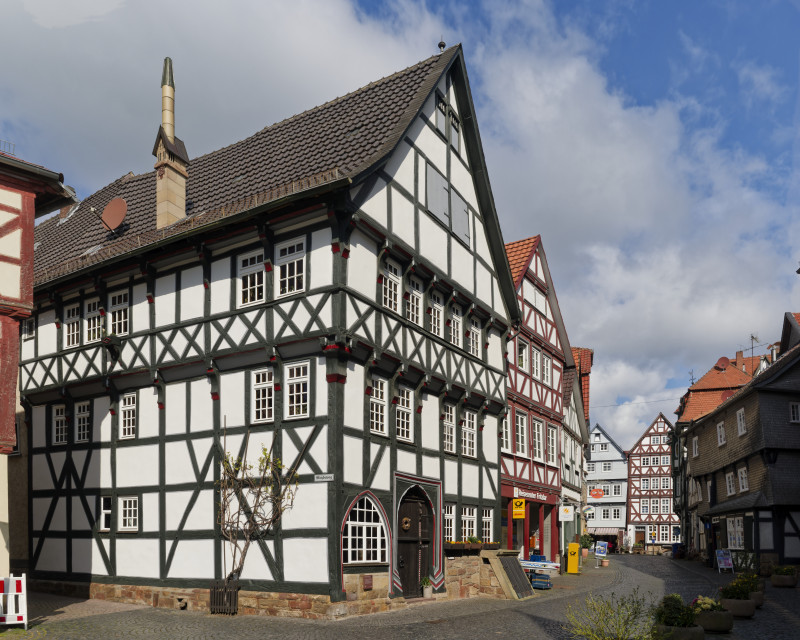
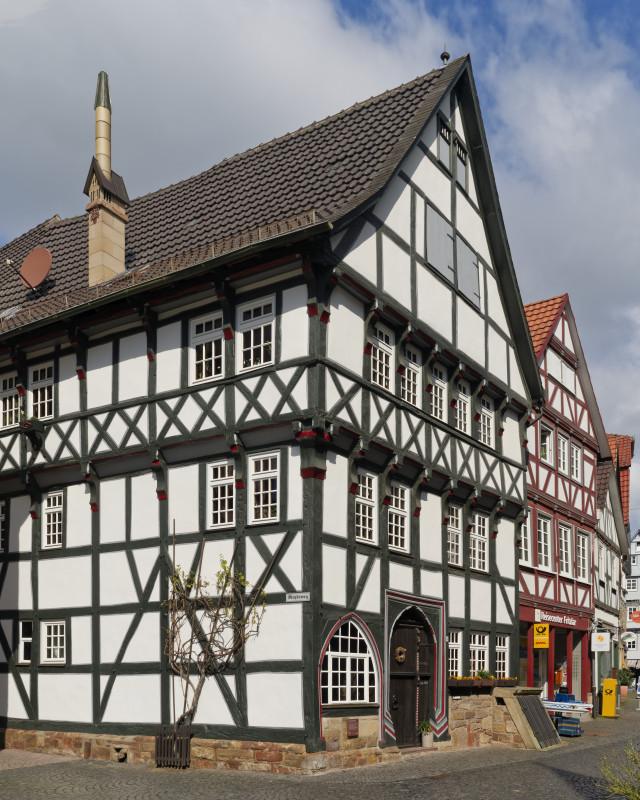
update fritzlar

diff --git a/locales/fritzlar/de/aboutTabsHeader.html b/locales/fritzlar/de/aboutTabsHeader.html
@@ -1,0 +1,5 @@
+<li class="active"><a href="#expectModal" data-toggle="tab"><i class="bi bi-person-check"></i>&nbsp;Geschichte</a></li>
+<li><a href="#aboutModal" data-toggle="tab"><i class="bi bi-question-circle"></i>&nbsp;Über das Projekt</a></li>
+<li><a href="#featuresModal" data-toggle="tab"><i class="bi bi-ui-checks"></i>&nbsp;Features</a></li>
+<li><a href="#linksModal" data-toggle="tab"><i class="bi bi-bookmark-star"></i>&nbsp;Links</a></li>
+<li><a href="#disclaimerModal" data-toggle="tab"><i class="bi bi-exclamation-circle"></i>&nbsp;Disclaimer</a></li>

diff --git a/locales/fritzlar/de/disclaimerModalLi.md b/locales/fritzlar/de/disclaimerModalLi.md
@@ -1,17 +1,31 @@
-## Disclaimer / Haftungsausschluss
+# Disclaimer
 
-### Haftung für Inhalte
+## Haftungsbeschränkung
 
-Die Inhalte unserer Seiten wurden mit größter Sorgfalt erstellt. Für die Richtigkeit, Vollständigkeit und Aktualität der Inhalte (insbesondere der Points-of-Interest und Routenverläufe) können wir jedoch keine Gewähr übernehmen. Als Diensteanbieter sind wir gemäß § 7 Abs.1 DDG für eigene Inhalte auf diesen Seiten nach den allgemeinen Gesetzen verantwortlich.
+Die Inhalte des
+Internetauftritts wurden mit größtmöglicher Sorgfalt und nach
+bestem Gewissen erstellt. Dennoch übernimmt der Anbieter dieser
+Webseite keine Gewähr für die Aktualität, Vollständigkeit und
+Richtigkeit der bereitgestellten Seiten und Inhalte.
 
-### Haftung für Links
+## Externe Links
 
-Unser Angebot enthält Links zu externen Webseiten Dritter (z. B. PayPal), auf deren Inhalte wir keinen Einfluss haben. Deshalb können wir für diese fremden Inhalte auch keine Gewähr übernehmen. Für die Inhalte der verlinkten Seiten ist stets der jeweilige Anbieter oder Betreiber der Seiten verantwortlich.
+Die Webseite enthält
+    sog. „externe Links“ (Verlinkungen) zu anderen Webseiten, auf
+    deren Inhalt der Anbieter der Webseite keinen Einfluss hat. Aus
+    diesem Grund kann der Anbieter für diese Inhalte auch keine
+    Gewähr übernehmen.
 
-### Urheberrecht
+## Datenschutz
 
-Die durch die Seitenbetreiber erstellten Inhalte und Werke auf diesen Seiten unterliegen dem deutschen Urheberrecht. Die Vervielfältigung, Bearbeitung, Verbreitung und jede Art der Verwertung außerhalb der Grenzen des Urheberrechtes bedürfen der schriftlichen Zustimmung des jeweiligen Autors bzw. Erstellers.
+Durch den Besuch des
+    Internetauftritts können Informationen (Datum, Uhrzeit,
+    aufgerufene Seite) über den Zugriff auf dem Server gespeichert
+    werden. Es werden keine personenbezogenenen (z. B. Name,
+    Anschrift oder E-Mail-Adresse) Daten, gespeichert.
 
-### Hinweis zu "Spenden" / Support
+## Quelle
 
-Bei den über diese App geleisteten Zahlungen handelt es sich rechtlich um freiwillige Zuwendungen (Schenkungen) ohne Gegenleistung zur Unterstützung des Projekts. Es besteht kein Anspruch auf eine Spendenbescheinigung im steuerrechtlichen Sinne.
+[Disclaimer und Websites erstellen]
+
+[Disclaimer und Websites erstellen]: href="http://www.mustervorlage.net/homepage-kostenlos

diff --git a/locales/fritzlar/de/startModalBody.md b/locales/fritzlar/de/startModalBody.md
@@ -1,4 +1,19 @@
 ![Fritzlar](./images/fritzlar/p0.jpg#pano)
+
 Tauche ein in 1300 Jahre Geschichte: Von Bonifatius' mutigem Akt an der Donareiche über Kaiser und Kriege bis hin zu charmantem Fachwerk und unerwarteten Wirtschaftswundern. Fritzlar – wo Vergangenheit lebendig wird und überraschende Geschichten warten!
 
-_Die Inhalte wurden unter Einsatz von KI-Werkzeugen erstellt und sorgfältig überprüft. Vereinzelt können Unstimmigkeiten nicht ausgeschlossen werden._
+Die günstige geografische Lage dieser Stadt im frühen Mittelalter machte sie zu einem zentralen Knotenpunkt für Verkehr und große politische und religiöse Ereignisse. Ihre frühe Entwicklung ist eng mit der Kirchengründung eines Missionars verbunden, der durch das Fällen einer heiligen Eiche die Christianisierung einleitete. Im Laufe der Jahrhunderte wurde die Stadt immer wieder zum Schauplatz militärischer Konflikte, die zu wiederholten Zerstörungen führten. Diese turbulente Geschichte prägte maßgeblich ihre architektonische Identität, die sich in umfangreichen Verteidigungsanlagen wie Stadtmauern und Türmen manifestierte. Zudem zeugen zahlreiche Sakralbauten sowie historische Fachwerk- und Repräsentativbauten von der anhaltenden Bedeutung und dem ständigen Wiederaufbau dieser stetig wandelnden Siedlung.
+
+## Was kann ich in Korbach entdecken?
+
+<audio controls class="full-width-audio">
+  <source src="locales/fritzlar/de/p0.mp3" type="audio/mpeg">
+  Dein Browser unterstützt kein Audioelement.
+</audio>
+
+## Hinweis
+
+- Über das Pfeilsymbol können Sie jederzeit Ihre Position auf der Karte anzeigen lassen.
+- "Route" zeigt Entfernungen zwischen den Sehenswürdigkeiten
+- Unter „About“ finden Sie spannende Hintergrundinformationen zum Projekt.
+- In der „Gallery“ können Sie ganz in Ruhe durch die schönsten Bilder stöbern

diff --git a/locales/fritzlar/de/p1.md b/locales/fritzlar/de/p1.md
@@ -2,6 +2,13 @@
 
 Das Rathaus in Fritzlar ist das älteste urkundlich erwähnte und bis heute genutzte Amtshaus Deutschlands, dessen ursprünglicher romanischer Bau ab dem Jahr 1274 als Sitz der Stadtverwaltung diente. Nach einer Zerstörung durch Brand im Jahr 1423 wurde das Gebäude bis 1441 im gotischen Stil umfassend wiederaufgebaut und mit drei spitzen Türmchen an der Südfassade versehen. Das Erscheinungsbild wurde durch Abtragungen im 19. Jahrhundert verändert, jedoch durch umfangreiche Sanierungen und Rekonstruktionen, einschliesslich der Wiedereinrichtung der Türmchen im Jahr 2009, in seine historische Form zurückgeführt und dient weiterhin als Rathaus.
 
+## Audio
+
+<audio controls class="full-width-audio">
+  <source src="locales/fritzlar/de/p1.mp3" type="audio/mpeg">
+  Dein Browser unterstützt kein Audioelement.
+</audio>
+
 ## Quellen
 
 - Informationstafeln Fritzlar

diff --git a/locales/fritzlar/de/p10.md b/locales/fritzlar/de/p10.md
@@ -2,6 +2,13 @@
 
 Das Haus Seibel am Markt ist ein spätgotisches Gebäude, dessen Ursprünge auf das Jahr 1480 zurückgehen und das erstmals 1483 urkundlich erwähnt wurde. Es wurde in Ständerbauweise errichtet und diente ursprünglich dem damaligen Bürgermeister Iwan als Gewerbe- und Wirtschaftsgebäude mit einer charakteristisch hohen Kaufhalle. Im 16. und 17. Jahrhundert beherbergte das Gebäude das Gasthaus „Zur Lilie“, wo unter anderem Generalfeldmarschall Tilly während des Dreißigjährigen Krieges verweilte. Später, im 18. Jahrhundert, wurde es zum Wohnhaus eines landwirtschaftlichen Anwesens der Familie Seibel. Das Gebäude weist eine erhebliche Schiefstellung auf, die durch eine unabhängige Betonkonstruktion abgefangen wurde, und erfuhr zwischen 1979 und 1981 eine umfassende Sanierung durch die Familie Heer.
 
+## Audio
+
+<audio controls class="full-width-audio">
+  <source src="locales/fritzlar/de/p10.mp3" type="audio/mpeg">
+  Dein Browser unterstützt kein Audioelement.
+</audio>
+
 ## Quellen
 
 - Informationstafeln Fritzlar

diff --git a/locales/fritzlar/de/p11.md b/locales/fritzlar/de/p11.md
@@ -2,6 +2,13 @@
 
 Das Hochzeitshaus ist ein großer, viergeschossiger Fachwerkbau, der zwischen 1580 und 1590 errichtet wurde und als Beispiel für Gebäude dient, die ab dem Spätmittelalter für umfangreiche bürgerliche Feierlichkeiten wie Hochzeiten und Taufen entstanden. Diese Häuser wurden notwendig, da die Räumlichkeiten privater Bürger oder öffentlicher Einrichtungen für die wachsenden Festgesellschaften zu klein wurden. Im Laufe seiner Geschichte diente dieses spezielle Gebäude unterschiedlichen Zwecken, darunter als Militärhospital, Schule und provisorisches Rathaus, bevor es zu einem Museum zur Stadtgeschichte umgewandelt wurde.
 
+## Audio
+
+<audio controls class="full-width-audio">
+  <source src="locales/fritzlar/de/p11.mp3" type="audio/mpeg">
+  Dein Browser unterstützt kein Audioelement.
+</audio>
+
 ## Quellen
 
 - Informationstafeln Fritzlar

diff --git a/locales/fritzlar/de/p12.md b/locales/fritzlar/de/p12.md
@@ -2,6 +2,13 @@
 
 Das Haus Orth ist ein gotischer Ständerbau, dessen Entstehung auf das Jahr 1520 datiert wird. Es diente ursprünglich als Patrizierhaus einer einflussreichen Familie, bevor es später als Wohnsitz einer landwirtschaftlichen Familie genutzt wurde. Nach einer Sanierung in den späten 1970er Jahren ist es heute teilweise in die Räumlichkeiten eines größeren Fachwerkgebäudes integriert, das ein Museum beherbergt. Dieses größere Gebäude aus den Jahren 1580 bis 1590 ist für seine repräsentative Renaissance-Architektur bekannt und wurde für bürgerliche Feierlichkeiten genutzt.
 
+## Audio
+
+<audio controls class="full-width-audio">
+  <source src="locales/fritzlar/de/p12.mp3" type="audio/mpeg">
+  Dein Browser unterstützt kein Audioelement.
+</audio>
+
 ## Quellen
 
 - Informationstafeln Fritzlar

diff --git a/locales/fritzlar/de/p14.md b/locales/fritzlar/de/p14.md
@@ -7,6 +7,13 @@ In Folge der Entwicklung schwerer Geschütze erfolgte im 15. Jahrhundert die Auf
 1541 wird das Turmverlies zum Stadtgefängnis.
 Der Graue Turm ist mit einer Höhe von 38,50 Metern einer der mächtigsten städtischen Wehrtürme in Deutschland.
 
+## Audio
+
+<audio controls class="full-width-audio">
+  <source src="locales/fritzlar/de/p14.mp3" type="audio/mpeg">
+  Dein Browser unterstützt kein Audioelement.
+</audio>
+
 ## Quellen
 
 - Informationstafeln Fritzlar

diff --git a/locales/fritzlar/de/p15.md b/locales/fritzlar/de/p15.md
@@ -4,6 +4,13 @@
 Mit seinen beiden zweigeschossigen seitlichen Erkern und den reich eingeschnitzten Rankenornamenten war es das stattliche Wohnhaus eines ehemals wohlhabenden landwirtschaftlichen Anwesens. 1960 im unteren Teil für das Herren-Textilgeschäft Lambert umgebaut.
 Seit 1998 im Besitz der Eheleute Pia und Klaus Meyer, die das Gebäude 1999 und 2009 grundlegend modernisierten.
 
+## Audio
+
+<audio controls class="full-width-audio">
+  <source src="locales/fritzlar/de/p15.mp3" type="audio/mpeg">
+  Dein Browser unterstützt kein Audioelement.
+</audio>
+
 ## Quellen
 
 - Informationstafeln Fritzlar

diff --git a/locales/fritzlar/de/p16.md b/locales/fritzlar/de/p16.md
@@ -4,6 +4,13 @@ Um 1310 erbaute Staffelgiebelhäuser von Fritzlarer Patrizierfamilien, die in de
 Um 1700 Entfernung der ursprünglich steileren Dächer. Dabei wurden auch die hohen rechteckigen Abschlüsse der Staffelgiebel verkürzt.
 Nach 1900 Umgestaltung der Straßenfassade bei Kasseler Straße 6. 1986-1988 umfassende Sanierung von Kasseler Straße 8.
 
+## Audio
+
+<audio controls class="full-width-audio">
+  <source src="locales/fritzlar/de/p1.mp3" type="audio/mpeg">
+  Dein Browser unterstützt kein Audioelement.
+</audio>
+
 ## Quellen
 
 - Informationstafeln Fritzlar

diff --git a/locales/fritzlar/de/p17.md b/locales/fritzlar/de/p17.md
@@ -7,6 +7,13 @@ Zwischen 1553 und 1619 wurden Kloster und Kirche aufgegeben, im 17. Jahrhundert 
 Seit 1817 evangelische Stadtkirche.
 1929/30 Restaurierung und Wiederherstellung der alten Dachform. Die Klostergebäude sind heute Teil des Hospitals zum Heiligen Geist.
 
+## Audio
+
+<audio controls class="full-width-audio">
+  <source src="locales/fritzlar/de/p1.mp3" type="audio/mpeg">
+  Dein Browser unterstützt kein Audioelement.
+</audio>
+
 ## Quellen
 
 - Informationstafeln Fritzlar

diff --git a/locales/fritzlar/de/p18.md b/locales/fritzlar/de/p18.md
@@ -4,6 +4,13 @@ Der Deutsche Orden ist bereits gegen Ende des 13. Jahrhunderts in Fritzlar und U
 Über dem Einfahrtstor das Wappen des Landkomturs Johann von Rehen, 1559.
 In den Jahren 1980-1982 von Familie Dr. Balli umfassend saniert. Nördlich liegt die sogenannte Zehntscheune aus dem 14. Jahrhundert.
 
+## Audio
+
+<audio controls class="full-width-audio">
+  <source src="locales/fritzlar/de/p1.mp3" type="audio/mpeg">
+  Dein Browser unterstützt kein Audioelement.
+</audio>
+
 ## Quellen
 
 - Informationstafeln Fritzlar